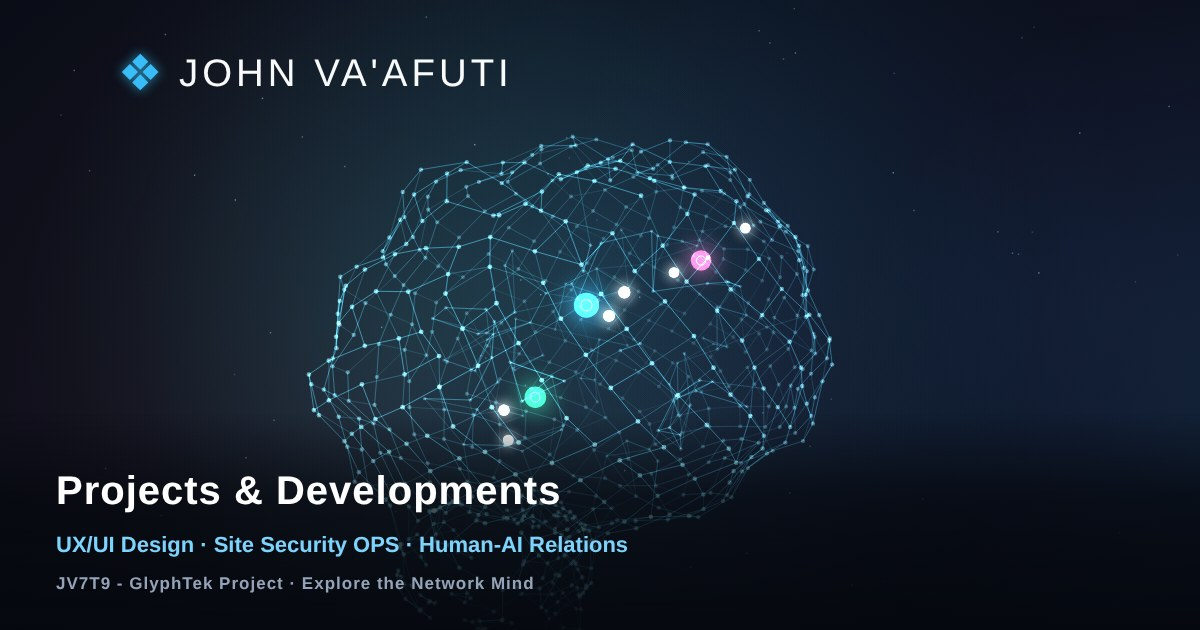
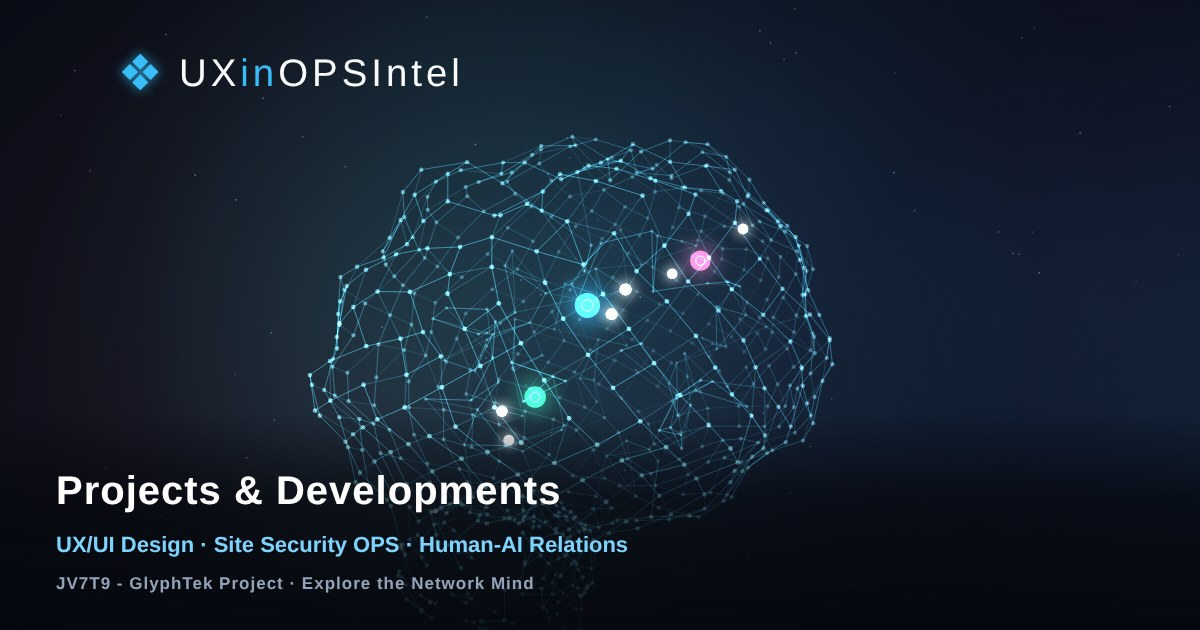
Add files via upload

diff --git a/index.html b/index.html
@@ -3,11 +3,11 @@
 <head>
   <meta charset="UTF-8">
   <meta name="viewport" content="width=device-width, initial-scale=1.0">
-  <title>John Va'afuti | Projects &amp; Developments</title>
-  <meta name="description" content="Explore the Network Mind: UX/UI Design, Site Security OPS and Human-AI Relations projects by John Va'afuti. A JV7T9 - GlyphTek Project.">
+  <title>UXinOPSIntel | Projects &amp; Developments</title>
+  <meta name="description" content="Explore the Network Mind: UX/UI Design, Site Security OPS and Human-AI Relations projects. A JV7T9 - GlyphTek Project.">
 
   <!-- Open Graph tags for LinkedIn's preview card -->
-  <meta property="og:title" content="John Va'afuti | Projects & Developments" />
+  <meta property="og:title" content="UXinOPSIntel | Projects & Developments" />
   <meta property="og:description" content="Explore the Network Mind: UX/UI Design, Site Security OPS and Human-AI Relations projects. A JV7T9 - GlyphTek Project." />
   <meta property="og:type" content="website" />
   <meta property="og:url" content="https://jv7t9.github.io/projects/" />
@@ -15,7 +15,7 @@
   <meta property="og:image:width" content="1200" />
   <meta property="og:image:height" content="630" />
   <meta name="twitter:card" content="summary_large_image" />
-  <meta name="twitter:title" content="John Va'afuti | Projects & Developments" />
+  <meta name="twitter:title" content="UXinOPSIntel | Projects & Developments" />
   <meta name="twitter:description" content="Explore the Network Mind: UX/UI Design, Site Security OPS and Human-AI Relations projects." />
   <meta name="twitter:image" content="https://jv7t9.github.io/projects/preview.jpg" />
 
